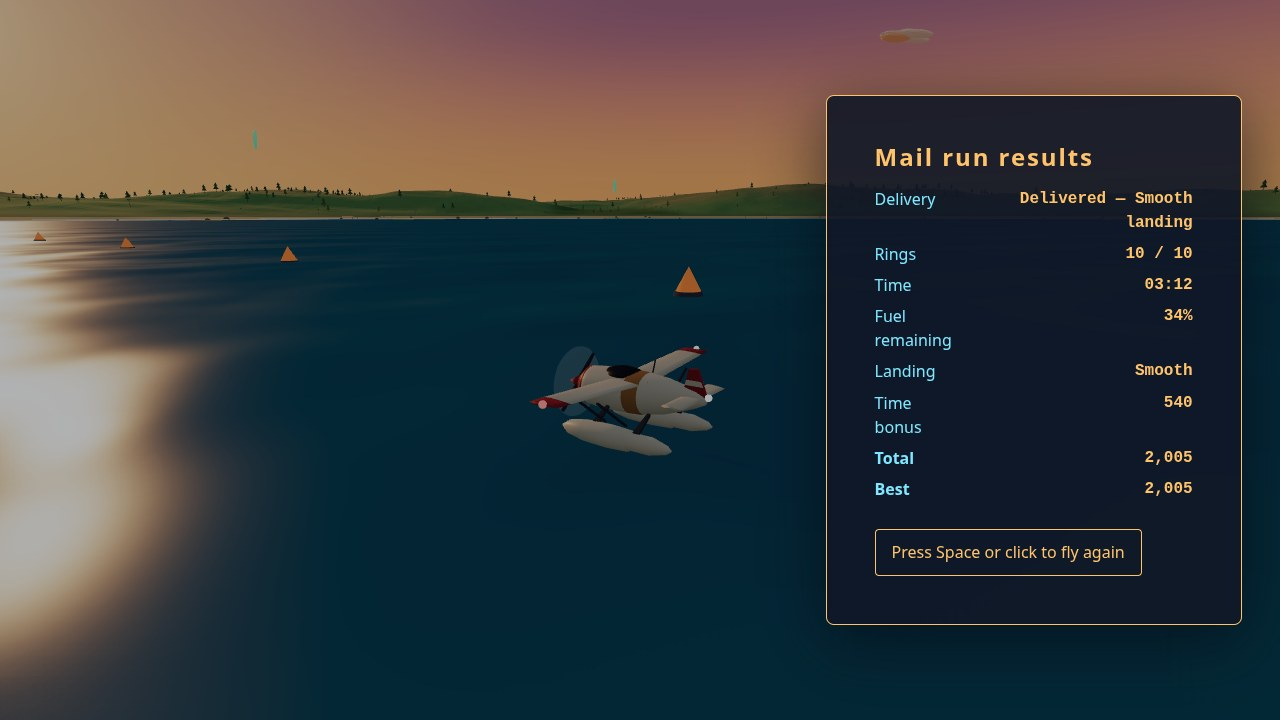
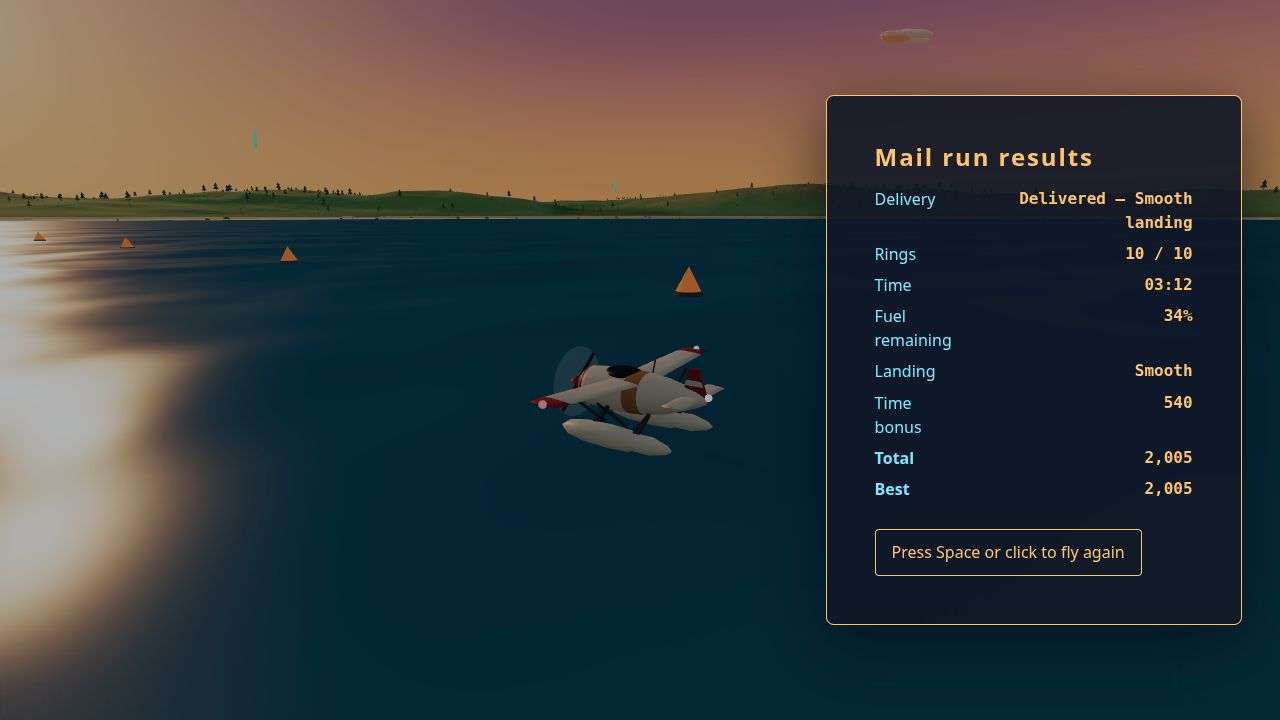
V5.3: cockpit finishing pass (cabin enclosure with sidewalls, floor and lower console, padded glareshield brow, rubber windscreen seals, visible left-seat yoke, panel trim with rivets and instrument placards, checklist clip and shadow, compass seated to the top frame, stray cockpit THR bar removed);

diff --git a/game/src/aircraft.js b/game/src/aircraft.js
@@ -124,7 +124,12 @@ function buildCockpit(materials, cockpit) {
   interior.name = 'Cockpit interior';
   interior.visible = false;
   const dark = new THREE.MeshStandardMaterial({ color: '#12161d', roughness: 0.85 });
+  const brow = new THREE.MeshStandardMaterial({ color: '#101317', roughness: 0.98 });
   const panelGray = new THREE.MeshStandardMaterial({ color: '#8f948b', roughness: 0.85 });
+  const cabinGray = new THREE.MeshStandardMaterial({
+    color: '#454b4c', roughness: 0.95, side: THREE.DoubleSide,
+  });
+  const rubber = new THREE.MeshStandardMaterial({ color: '#0c1013', roughness: 1 });
   const panelMaterial = new THREE.MeshBasicMaterial({
     map: cockpit.texture, toneMapped: false, depthTest: false, depthWrite: false,
   });
@@ -142,31 +147,94 @@ function buildCockpit(materials, cockpit) {
     const mesh = part(geometry, material, center.x, center.y, center.z);
     mesh.scale.y = direction.length();
     mesh.quaternion.setFromUnitVectors(new THREE.Vector3(0, 1, 0), direction.normalize());
+    return mesh;
+  }
+
+  function sidewall(side) {
+    const geometry = new THREE.BufferGeometry();
+    geometry.setAttribute('position', new THREE.Float32BufferAttribute([
+      side * 0.79, 0.50, -1.00, side * 0.70, 0.62, 0.45,
+      side * 0.67, -0.45, 0.45, side * 0.77, -0.45, -1.04,
+    ], 3));
+    geometry.setIndex([0, 1, 2, 0, 2, 3]);
+    geometry.computeVertexNormals();
+    part(geometry, cabinGray, 0, 0, 0).name = 'Cabin door liner';
+    brace(new THREE.BoxGeometry(0.055, 1, 0.055),
+      new THREE.Vector3(side * 0.79, 0.49, -1.01),
+      new THREE.Vector3(side * 0.70, 0.62, 0.45), dark).name = 'Door sill';
   }
 
   part(new THREE.BoxGeometry(1.58, 0.78, 0.14), panelGray, 0, 0.13, -1.08);
   const instruments = part(new THREE.PlaneGeometry(1.5, 0.75), panelMaterial, 0, 0.13, -1.005);
+  instruments.name = 'Instrument face';
   instruments.rotation.x = -0.10;
   // The dashboard backing intersects the tilted face, so paint the instruments over it.
   instruments.renderOrder = 1;
-  part(new THREE.BoxGeometry(1.62, 0.05, 0.34), dark, 0, 0.545, -0.96);
+  part(new THREE.BoxGeometry(1.62, 0.075, 0.37), brow, 0, 0.5325, -0.975);
+  part(new THREE.BoxGeometry(1.60, 0.034, 0.028), dark, 0, 0.535, -0.79).name = 'Padded brow edge';
+  part(new THREE.BoxGeometry(1.54, 0.017, 0.29), rubber, 0, 0.489, -0.974).name = 'Brow underside';
+  part(new THREE.BoxGeometry(1.55, 0.19, 0.12), cabinGray, 0, -0.33, -1.03).name = 'Lower panel apron';
+  const console = part(new THREE.BoxGeometry(0.25, 0.26, 0.55), dark, 0.08, -0.36, -0.82);
+  console.name = 'Lower centre console';
+  // The heel board closes the gap between the panel apron and the cabin floor.
+  part(new THREE.BoxGeometry(1.7, 0.06, 2.25), cabinGray, 0, -0.48, -0.27).name = 'Cabin floor';
+  part(new THREE.BoxGeometry(1.49, 0.13, 0.21), dark, 0, -0.43, -1.18);
   const post = new THREE.BoxGeometry(0.038, 1, 0.045);
+  const seal = new THREE.BoxGeometry(0.012, 1, 0.018);
   for (const side of [-1, 1]) {
     brace(post, new THREE.Vector3(side * 0.79, 0.50, -1.00), new THREE.Vector3(side * 0.56, 1.06, -0.615), dark);
+    brace(seal, new THREE.Vector3(side * 0.772, 0.50, -0.982),
+      new THREE.Vector3(side * 0.543, 1.052, -0.598), rubber);
+    sidewall(side);
   }
   part(new THREE.BoxGeometry(1.16, 0.038, 0.06), dark, 0, 1.06, -0.61);
+  part(new THREE.BoxGeometry(1.12, 0.012, 0.018), rubber, 0, 1.038, -0.624);
   brace(new THREE.BoxGeometry(0.030, 1, 0.045),
     new THREE.Vector3(0, 0.52, -0.99), new THREE.Vector3(0, 1.06, -0.615), dark);
+  for (const x of [-0.013, 0.013]) {
+    brace(seal, new THREE.Vector3(x, 0.52, -0.974), new THREE.Vector3(x, 1.054, -0.601), rubber);
+  }
   const cardBacking = part(new THREE.BoxGeometry(0.37, 0.145, 0.012), dark, 0.245, 0.79, -0.80);
   cardBacking.rotation.x = -0.08;
+  const mount = brace(new THREE.BoxGeometry(0.020, 1, 0.018),
+    new THREE.Vector3(0.01, 0.873, -0.748), new THREE.Vector3(0.152, 0.869, -0.811), dark);
+  mount.name = 'Checklist mount';
+  const dropShadow = new THREE.ShaderMaterial({
+    transparent: true, depthWrite: false,
+    vertexShader: `
+      varying vec2 cardUv;
+      void main() {
+        cardUv = uv;
+        gl_Position = projectionMatrix * modelViewMatrix * vec4(position, 1.0);
+      }`,
+    fragmentShader: `
+      varying vec2 cardUv;
+      void main() {
+        vec2 edge = max(abs(cardUv - 0.5) - vec2(0.40, 0.32), 0.0);
+        gl_FragColor = vec4(0.02, 0.025, 0.03, 0.40 * (1.0 - smoothstep(0.0, 0.10, length(edge))));
+      }`,
+  });
+  const shadow = part(new THREE.PlaneGeometry(0.412, 0.185), dropShadow, 0.254, 0.778, -0.81);
+  shadow.rotation.x = -0.08;
   const card = part(new THREE.PlaneGeometry(0.36, 0.135),
     new THREE.MeshBasicMaterial({ map: cockpit.cardTexture, toneMapped: false }), 0.245, 0.79, -0.792);
   card.rotation.x = -0.08;
-  brace(new THREE.CylinderGeometry(0.028, 0.033, 1, 10),
-    new THREE.Vector3(-0.36, -0.16, -0.82), new THREE.Vector3(-0.36, 0.03, -0.75));
-  const yoke = part(new THREE.TorusGeometry(0.13, 0.024, 8, 20), dark, -0.36, 0.05, -0.73);
-  yoke.rotation.x = 1.15;
-  part(new THREE.BoxGeometry(1.7, 0.05, 1.9), dark, 0, -0.48, -0.1);
+  part(new THREE.BoxGeometry(0.062, 0.022, 0.023), materials.metal, 0.151, 0.858, -0.784).name = 'Checklist clip';
+
+  const column = brace(new THREE.CylinderGeometry(0.025, 0.033, 1, 10),
+    new THREE.Vector3(-0.49, -0.30, -0.95), new THREE.Vector3(-0.49, 0.377, -0.42), dark);
+  column.name = 'Yoke column';
+  column.renderOrder = 2;
+  const yokeBar = part(new THREE.BoxGeometry(0.218, 0.029, 0.035), dark, -0.49, 0.377, -0.42);
+  yokeBar.name = 'Yoke crossbar';
+  yokeBar.renderOrder = 2;
+  const gripGeometry = new THREE.CapsuleGeometry(0.017, 0.049, 4, 8);
+  for (const side of [-1, 1]) {
+    const grip = part(gripGeometry, rubber, -0.49 + side * 0.104, 0.392, -0.42);
+    grip.name = 'Yoke grip';
+    grip.rotation.z = side * -0.16;
+    grip.renderOrder = 2;
+  }
   return interior;
 }
 

diff --git a/game/src/cockpit.js b/game/src/cockpit.js
@@ -62,6 +62,31 @@ function drawZone(ctx, x, y, width, height) {
   }
 }
 
+function drawPanelTrim(ctx) {
+  ctx.strokeStyle = '#656c64';
+  ctx.lineWidth = 2;
+  ctx.strokeRect(3, 3, 1018, 506);
+  ctx.strokeStyle = 'rgba(247,249,241,0.45)';
+  ctx.lineWidth = 1;
+  ctx.strokeRect(6, 6, 1012, 500);
+  for (const x of [10, 1014]) {
+    for (const y of [10, 124, 256, 388, 502]) {
+      dot(ctx, x, y, 3, '#565d56');
+      line(ctx, x - 1.2, y + 0.8, x + 1.2, y - 0.8, '#bbc2b7');
+    }
+  }
+}
+
+function drawInstrumentPlacards(ctx) {
+  const labels = ['AIRSPEED', 'ATTITUDE', 'ALTIMETER', 'VERTICAL SPEED', 'ENGINE RPM', 'FUEL'];
+  labels.forEach((label, i) => {
+    const x = 242 + (i % 3 - 1) * 63 * 2.36;
+    const y = i < 3 ? 245 : 410;
+    text(ctx, label, x, y, 11, panelInk, 'center');
+  });
+  text(ctx, 'POWER CONTROLS', 564, 306, 10, panelInk, 'center');
+}
+
 function drawQuadrant(ctx, throttle) {
   inset(ctx, 494, 88, 140, 208, '#14181d', '#4b5155');
   const levers = [
@@ -182,6 +207,7 @@ export function createCockpitTexture() {
   function draw(flight, position, course) {
     ctx.fillStyle = panel;
     ctx.fillRect(0, 0, 1024, 512);
+    drawPanelTrim(ctx);
     drawZone(ctx, 16, 64, 452, 364);
     drawZone(ctx, 484, 64, 160, 364);
     drawZone(ctx, 660, 64, 348, 364);
@@ -193,6 +219,7 @@ export function createCockpitTexture() {
 
     const throttle = THREE.MathUtils.clamp(flight.throttle, 0, 1);
     drawQuadrant(ctx, throttle);
+    drawInstrumentPlacards(ctx);
     inset(ctx, 676, 80, 316, 246, '#14181d');
     inset(ctx, 688, 92, 292, 222, '#0a141c');
     drawCockpitRadar(ctx, 834, 203, 98, flight, course, position);
@@ -203,11 +230,6 @@ export function createCockpitTexture() {
     text(ctx, 'XPNDR 1200', 690, 402, 15, amber);
     text(ctx, 'ADF 340', 842, 402, 15, '#7dff9a');
 
-    text(ctx, 'THR', 16, 470, 15, panelInk);
-    ctx.fillStyle = 'rgba(20,24,29,0.55)';
-    ctx.fillRect(64, 462, 380, 12);
-    ctx.fillStyle = cyan;
-    ctx.fillRect(64, 462, 380 * throttle, 12);
     text(ctx, 'DUSKMAIL ATOLL — SUNSET MAIL RUN', 724, 470, 13, panelInk, 'center');
 
     drawCard(card, course, position);

diff --git a/game/src/hud.js b/game/src/hud.js
@@ -19,6 +19,7 @@ export function createHud(canvas) {
   const ctx = canvas.getContext('2d');
   const viewTarget = new THREE.Vector3();
   const projected = new THREE.Vector3();
+  const frameRotation = new THREE.Euler(0, 0, 0, 'YXZ');
   let width;
   let height;
   let staged = false;
@@ -104,6 +105,14 @@ export function createHud(canvas) {
     ctx.fillStyle = cyan;
     ctx.fill();
     text(`HDG ${String(wrapDegrees(Math.round(degrees))).padStart(3, '0')}°`, center, y + 43, cyan, 13, 'center');
+  }
+
+  function cockpitCompassY(flight, position, camera) {
+    if (!camera) return 0;
+    frameRotation.set(flight.pitch, -flight.heading, -flight.roll);
+    // Anchor to the lower edge of the windshield's top seal.
+    projected.set(0, 1.032, -0.633).applyEuler(frameRotation).add(position).project(camera);
+    return THREE.MathUtils.clamp(Math.round((1 - projected.y) * height / 2), 0, Math.max(0, height - 54));
   }
 
   function radar(flight, course, position, x, y, radius) {
@@ -263,7 +272,8 @@ export function createHud(canvas) {
     const rings = course.state.ringsPassed;
     readout('RINGS', rings === COURSE.ringCount ? 'LAND' : `${rings}/${COURSE.ringCount}`,
       right + 10, margin + 84, width - margin - 10, amber, size);
-    compass(flight.heading, compact ? margin + 125 : margin, Math.min(HUD.compassWidth, compact ? width - 2 * margin : width - 465));
+    const compassY = cockpit ? cockpitCompassY(flight, position, camera) : compact ? margin + 125 : margin;
+    compass(flight.heading, compassY, Math.min(HUD.compassWidth, compact ? width - 2 * margin : width - 465));
     if (!cockpit) objective(course, position, margin + (compact ? 187 : 62));
 
     const x = width / 2;
